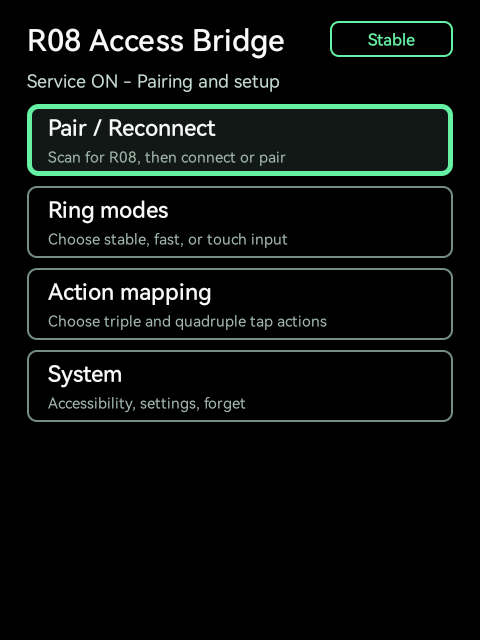
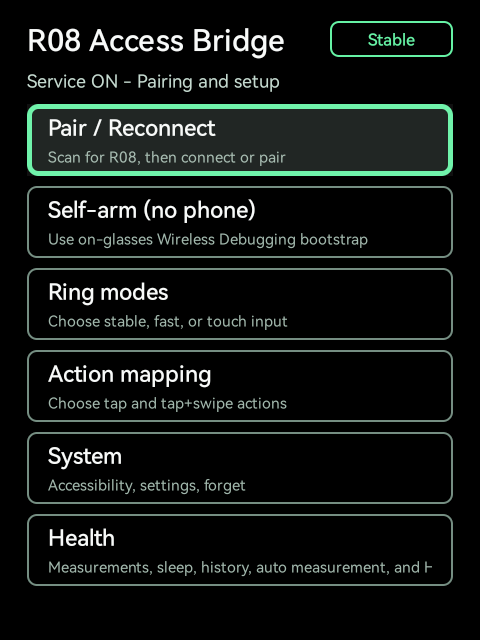
Add the Health screens to the README screenshots
Refresh the home screenshot while at it - the card list gained Health.

diff --git a/README.md b/README.md
@@ -49,6 +49,7 @@ Everything now runs on the glasses. A one-time `Self-arm (no phone)` sets up the
 - Lets ring swipes adjust the Rokid volume screen, and a single ring tap trigger a photo from the active camera page, without the privileged bridge.
 - Wakes the glasses display on ring input and ignores the waking gesture, so ring actions never run blindly on a sleeping screen.
 - Offers a three-state `Ring media key guard`: `Off` preserves normal media control, `Screen-off only` keeps dark-screen taps on the glasses, and `Always` prevents ring input from controlling media even during playback.
+- Reads the ring's health sensors from the glasses: on-demand heart rate, SpO₂, body temperature, HRV, and stress measurements with 12-hour charts, plus daily steps, sleep sessions, history sync, and backup.
 
 ## Screenshots
 
@@ -63,6 +64,12 @@ Everything now runs on the glasses. A one-time `Self-arm (no phone)` sets up the
 <p align="center">
   <img src="docs/screenshots/quadruple-tap-bridge.png" alt="Quadruple Tap mapped to the Hi Rokid Shortcut bridge" width="190">
   <img src="docs/screenshots/quadruple-tap-options.png" alt="Quadruple Tap action options" width="190">
+</p>
+
+<p align="center">
+  <img src="docs/screenshots/health.png" alt="Health screen with Sync all and the five measurement cards" width="190">
+  <img src="docs/screenshots/health-cards.png" alt="Health screen continued: steps, sleep, autosync, and backup" width="190">
+  <img src="docs/screenshots/health-heart-rate.png" alt="Heart Rate detail with Measure Now and the 12-hour chart" width="190">
 </p>
 
 ## Controls
